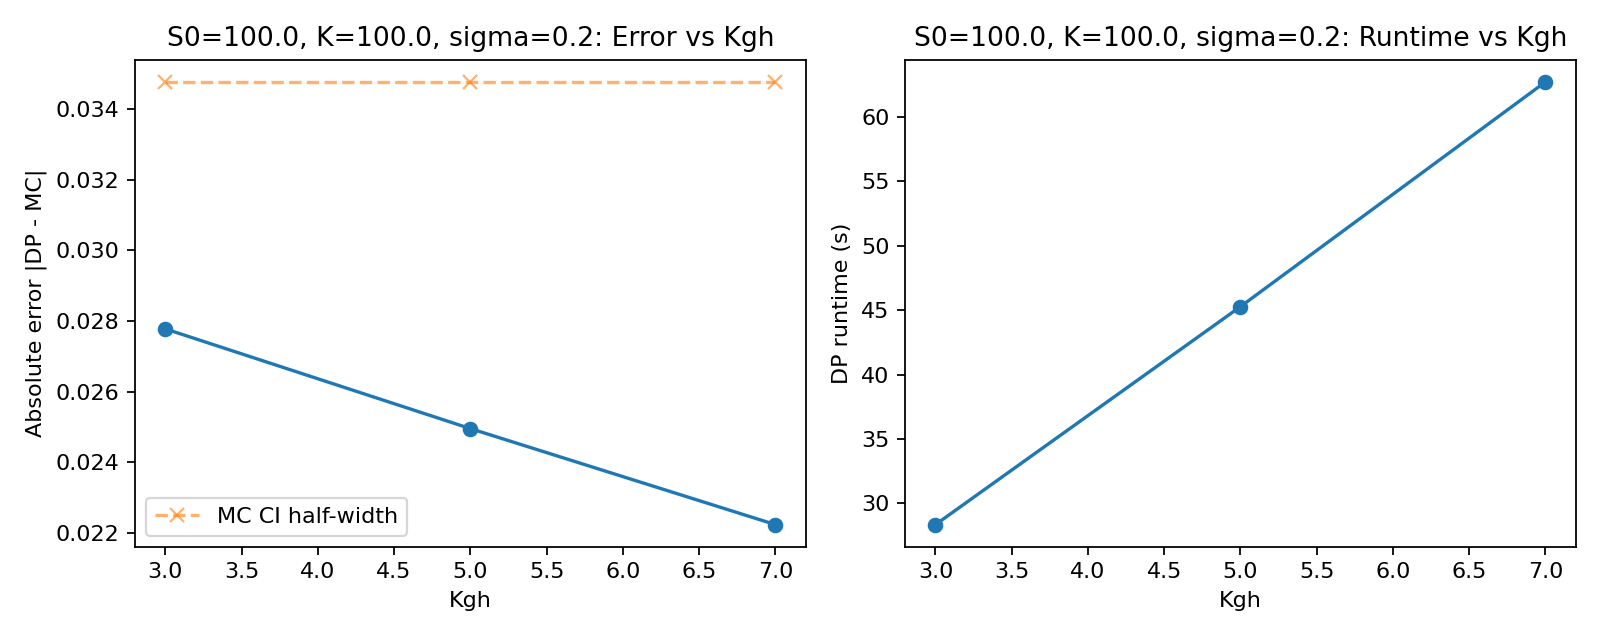
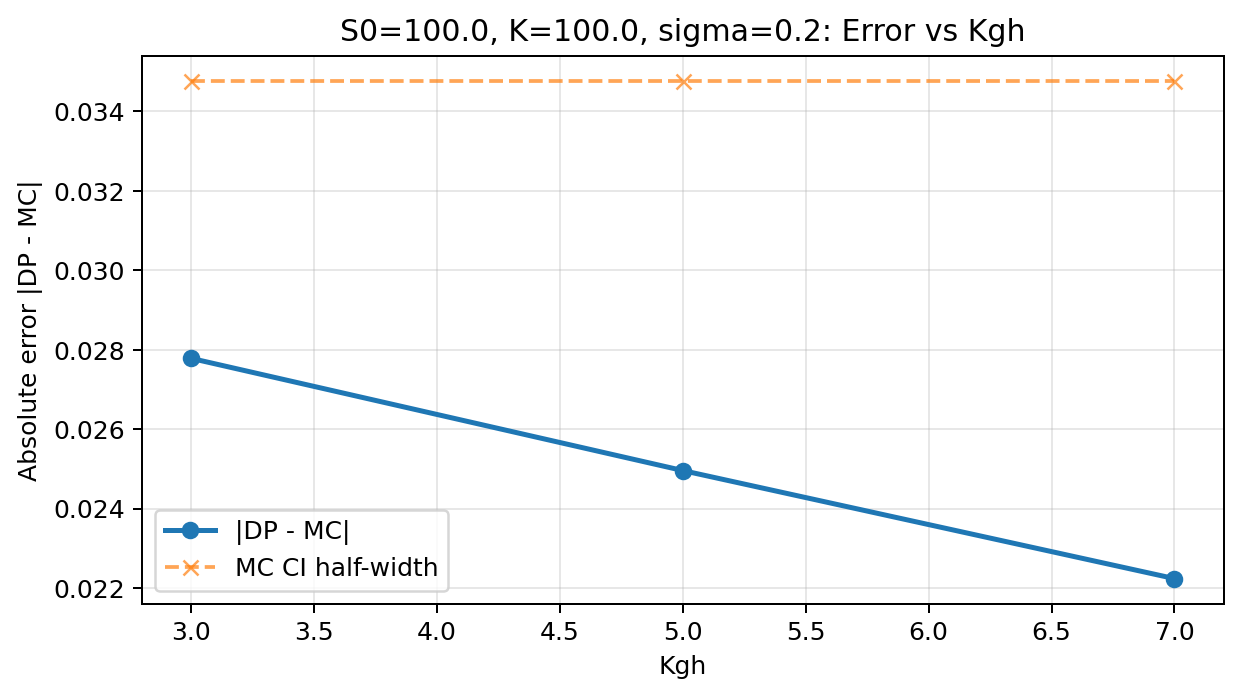
updated CLI

diff --git a/convergence_study.py b/convergence_study.py
@@ -1,6 +1,6 @@
 #!/usr/bin/env python3
 
-import argparse, csv, time
+import argparse, csv, time, os
 import numpy as np
 import matplotlib.pyplot as plt
 
@@ -8,100 +8,124 @@ from grids import s_grid_logspace, a_grid_linear
 from dp_asian import DPSolverAsian
 from mc_asian import asian_euro_mc
 
+
+# -----------------------------------------------------------
+# Utility Functions
+# -----------------------------------------------------------
+
+def ensure_dir(filepath):
+    """Ensure that the directory for the given file path exists."""
+    directory = os.path.dirname(os.path.abspath(filepath))
+    if directory and not os.path.exists(directory):
+        os.makedirs(directory, exist_ok=True)
+
+
+# -----------------------------------------------------------
+# Core Simulation Functions
+# -----------------------------------------------------------
+
 def run_dp_once(S0, K, r, q, sigma, T, NS, NA, N, Kgh, kgrid):
+    """Run one DP pricing for given discretization parameters."""
     Sg = s_grid_logspace(S0, sigma, T, k=kgrid, NS=NS)
     Ag = a_grid_linear(Sg, NA=NA)
     solver = DPSolverAsian(Sg, Ag, T=T, N=N, r=r, q=q, sigma=sigma, K=K,
                            is_call=True, K_gh=Kgh,
-                           monitor_schedule=list(range(1, N+1)),  # monitor every step
-                           exercise_schedule=[])  # European
+                           monitor_schedule=list(range(1, N+1)),
+                           exercise_schedule=[])  # European only
     t0 = time.perf_counter()
     price, _ = solver.price(S0=S0, A0=S0, return_frontier=False)
     t1 = time.perf_counter()
     return price, (t1 - t0)
 
+
 def run_mc_once(S0, K, r, q, sigma, T, M, paths, seed):
+    """Monte Carlo baseline for European Asian option."""
     est, (lo, hi), se = asian_euro_mc(S0, K, r, sigma, T, M, paths=paths, q=q, call=True, seed=seed)
     half = hi - est
     return est, half, se
 
+
 def sweep(param, values, S0, K, r, q, sigma, T, NS, NA, N, Kgh, kgrid, mc_paths, seed):
+    """Sweep one parameter (NS, NA, N, Kgh) and collect errors."""
     rows = []
-    # MC baseline uses monitoring M = N for consistency; if we sweep N, we keep MC in sync with N
     for v in values:
         NSv, NAv, Nv, Kghv = NS, NA, N, Kgh
         if param == "NS": NSv = int(v)
         elif param == "NA": NAv = int(v)
         elif param == "N": Nv = int(v)
         elif param == "Kgh": Kghv = int(v)
-        else: raise ValueError("param must be one of NS, NA, N, Kgh")
+        else:
+            raise ValueError("param must be one of NS, NA, N, Kgh")
 
-        # DP
         dp_price, dt = run_dp_once(S0, K, r, q, sigma, T, NSv, NAv, Nv, Kghv, kgrid)
-        # MC baseline (European) with M = Nv monitors
         mc_mean, mc_half, se = run_mc_once(S0, K, r, q, sigma, T, Nv, mc_paths, seed)
-
         err = abs(dp_price - mc_mean)
-        rows.append({
-            "param": param,
-            "value": v,
-            "NS": NSv, "NA": NAv, "N": Nv, "Kgh": Kghv,
-            "dp_price": dp_price,
-            "mc_mean": mc_mean,
-            "mc_CI_half": mc_half,
-            "abs_error": err,
-            "dp_runtime_s": dt
-        })
-        print(f"{param}={v}: DP={dp_price:.6f}, MC={mc_mean:.6f}±{mc_half:.6f}, |err|={err:.6f}, time={dt:.3f}s")
 
+        rows.append({
+            "param": param, "value": v,
+            "dp_price": dp_price, "mc_mean": mc_mean,
+            "mc_CI_half": mc_half, "abs_error": err, "runtime_s": dt
+        })
+        print(f"{param}={v}: DP={dp_price:.6f}, MC={mc_mean:.6f}±{mc_half:.6f}, |err|={err:.6f}")
     return rows
 
+
+# -----------------------------------------------------------
+# Plotting & Saving
+# -----------------------------------------------------------
+
 def save_csv(rows, out_csv):
-    if not rows: return
+    """Save results to CSV file."""
+    if not rows:
+        return
+    ensure_dir(out_csv)
     keys = list(rows[0].keys())
     with open(out_csv, "w", newline="") as f:
         w = csv.DictWriter(f, fieldnames=keys)
         w.writeheader()
-        for r in rows: w.writerow(r)
+        for r in rows:
+            w.writerow(r)
     print("Saved", out_csv)
 
+
 def plot_convergence(rows, title_prefix, out_png=None):
+    """Plot absolute error vs discretization parameter (no runtime)."""
     xs = [r["value"] for r in rows]
     err = [r["abs_error"] for r in rows]
     ci = [r["mc_CI_half"] for r in rows]
-    rt = [r["dp_runtime_s"] for r in rows]
 
-    fig, ax = plt.subplots(1, 2, figsize=(10,4))
-
-    ax[0].plot(xs, err, marker="o")
-    ax[0].plot(xs, ci, marker="x", linestyle="--", alpha=0.6, label="MC CI half-width")
-    ax[0].set_xlabel(rows[0]["param"])
-    ax[0].set_ylabel("Absolute error |DP - MC|")
-    ax[0].set_title(f"{title_prefix}: Error vs {rows[0]['param']}")
-    ax[0].legend()
-
-    ax[1].plot(xs, rt, marker="o")
-    ax[1].set_xlabel(rows[0]["param"])
-    ax[1].set_ylabel("DP runtime (s)")
-    ax[1].set_title(f"{title_prefix}: Runtime vs {rows[0]['param']}")
-    fig.tight_layout()
+    plt.figure(figsize=(7, 4))
+    plt.plot(xs, err, marker="o", label="|DP - MC|", linewidth=2)
+    plt.plot(xs, ci, marker="x", linestyle="--", alpha=0.7, label="MC CI half-width")
+    plt.xlabel(rows[0]["param"])
+    plt.ylabel("Absolute error |DP - MC|")
+    plt.title(f"{title_prefix}: Error vs {rows[0]['param']}")
+    plt.grid(True, alpha=0.3)
+    plt.legend()
+    plt.tight_layout()
 
     if out_png:
-        plt.savefig(out_png, dpi=160)
+        ensure_dir(out_png)
+        plt.savefig(out_png, dpi=180, bbox_inches="tight")
         print("Saved", out_png)
     else:
         plt.show()
 
+
+# -----------------------------------------------------------
+# Main
+# -----------------------------------------------------------
+
 def main():
     ap = argparse.ArgumentParser(description="Convergence study for DP vs MC (European Asian)")
-    # Model
+    # Model parameters
     ap.add_argument("--S0", type=float, default=100.0)
     ap.add_argument("--K", type=float, default=100.0)
     ap.add_argument("--r", type=float, default=0.05)
     ap.add_argument("--q", type=float, default=0.0)
     ap.add_argument("--sigma", type=float, default=0.20)
     ap.add_argument("--T", type=float, default=1.0)
-    # Baseline discretization
+    # Discretization
     ap.add_argument("--NS", type=int, default=201)
     ap.add_argument("--NA", type=int, default=141)
     ap.add_argument("--N", type=int, default=60)
@@ -110,21 +134,26 @@ def main():
     # Sweep control
     ap.add_argument("--param", choices=["NS", "NA", "N", "Kgh"], default="NS")
     ap.add_argument("--values", type=str, default="81,101,121,161,201")
-    # MC
+    # Monte Carlo
     ap.add_argument("--mc_paths", type=int, default=100000)
     ap.add_argument("--seed", type=int, default=2025)
-    # Output
-    ap.add_argument("--out_csv", type=str, default="convergence_results.csv")
-    ap.add_argument("--out_png", type=str, default="convergence_plot.png")
+    # Output (auto-named based on param)
+    ap.add_argument("--outdir", type=str, default="convergence_figs")
     args = ap.parse_args()
+
+    ensure_dir(args.outdir)
+    out_csv = os.path.join(args.outdir, f"conv_{args.param}.csv")
+    out_png = os.path.join(args.outdir, f"conv_{args.param}.png")
 
     values = [int(v) for v in args.values.split(",") if v.strip()]
 
-    rows = sweep(args.param, values, args.S0, args.K, args.r, args.q, args.sigma, args.T,
-                 args.NS, args.NA, args.N, args.Kgh, args.kgrid, args.mc_paths, args.seed)
+    rows = sweep(args.param, values, args.S0, args.K, args.r, args.q,
+                 args.sigma, args.T, args.NS, args.NA, args.N,
+                 args.Kgh, args.kgrid, args.mc_paths, args.seed)
 
-    save_csv(rows, args.out_csv)
-    plot_convergence(rows, title_prefix=f"S0={args.S0}, K={args.K}, sigma={args.sigma}", out_png=args.out_png)
+    save_csv(rows, out_csv)
+    plot_convergence(rows, title_prefix=f"S0={args.S0}, K={args.K}, sigma={args.sigma}", out_png=out_png)
+
 
 if __name__ == "__main__":
     main()

diff --git a/exersize_frontier.py b/exersize_frontier.py
@@ -46,8 +46,7 @@ def plot_frontier_clean(mask, Sg, Ag, title, savepath=None, smooth_sigma=0.0):
         png_path = root + ".png"
         pdf_path = root + ".pdf"
         fig.savefig(png_path, dpi=300, bbox_inches="tight")
-        fig.savefig(pdf_path, dpi=300, bbox_inches="tight")
-        print("Saved:", png_path, "and", pdf_path)
+        print("Saved:", png_path)
 
     plt.show()
 
@@ -81,7 +80,7 @@ def main():
     target_steps = [s if s in step_to_idx else min(ex_steps_sorted, key=lambda x: abs(x - s))
                     for s in target_steps]
 
-    outdir = "figs"
+    outdir = "exersize_frontier_figs"
     os.makedirs(outdir, exist_ok=True)
 
     for frac, step in zip(targets, target_steps):

diff --git a/sensitivity_stats.py b/sensitivity_stats.py
@@ -76,7 +76,7 @@ def main():
     ap.add_argument("--strikes", type=str, default="80,90,100,110,120")
     ap.add_argument("--M_list", type=str, default="12,24,52")
     # Output
-    ap.add_argument("--outdir", type=str, default="sensitivity_overlay")
+    ap.add_argument("--outdir", type=str, default="sensitivity_figs")
     args = ap.parse_args()
 
     os.makedirs(args.outdir, exist_ok=True)

diff --git a/README.md b/README.md
@@ -27,6 +27,21 @@ It provides validated numerical convergence studies, early-exercise frontier vis
 
 ---
 
+---
+
+## 🚀 Installation
+
+
+Clone the repository and install dependencies via `requirements.txt`:
+
+```bash
+git clone https://github.com/<your-username>/<repo-name>.git
+cd <repo-name>
+pip install -r requirements.txt
+```
+
+
+
 ## ⚙ 1. Core Mathematical Model
 
 We discretize the **state space** \((S, A)\), where:
@@ -50,7 +65,7 @@ We discretize the **state space** \((S, A)\), where:
   \end{cases}
   ```
 
-Expectation \(\mathbb{E}[\cdot]\) is evaluated using **Gauss–Hermite quadrature** with pre-tabulated nodes and weights.
+Expectation ![E](https://latex.codecogs.com/svg.latex?\mathbb{E}[\cdot]) is evaluated using **Gauss–Hermite quadrature** with pre-tabulated nodes and weights.
 
 ---
 
@@ -70,7 +85,7 @@ Validates DP solver convergence against Monte Carlo pricing for **European Asian
 ```
 Example:
 ```bash
-python convergence_study.py --param NS --values 81,101,121,161,201
+python convergence_study.py --param NS --values 81,101,121,161,201,301
 ```
 
 #### Output
@@ -201,10 +216,8 @@ python sensitivity_stats.py
 ![Price vs r](sensitivity_figs/price_vs_r.png)
 
 **Interpretation:**
-\(
-V_{Euro} \le V_{Berm} \le V_{Amer}
-\)
 
+![ineq](https://latex.codecogs.com/svg.latex?V_{Euro}\le%20V_{Berm}\le%20V_{Amer})
 ---
 
 ## 📈 3. Typical Observations
@@ -232,7 +245,9 @@ V_{Euro} \le V_{Berm} \le V_{Amer}
 
 1. Run convergence validation:
    ```bash
-   python convergence_study.py --param NS --values 81,121,161,201
+   python convergence_study.py --param NS --values 81,121,161,201,301
+   python convergence_study.py --param NA --values 61,81,101,141,181
+   python convergence_study.py --param Kgh --values 3,5,7
    ```
 2. Generate Bermudan frontiers:
    ```bash
@@ -240,7 +255,9 @@ V_{Euro} \le V_{Berm} \le V_{Amer}
    ```
 3. Compute early-exercise premium curves:
    ```bash
-   python early_premium.py --do_sigma --style berm
+   python early_premium.py --do_M
+   python early_premium.py --do_sigma 
+   python early_premium.py --do_K 
    ```
 4. Produce multi-style overlays:
    ```bash
